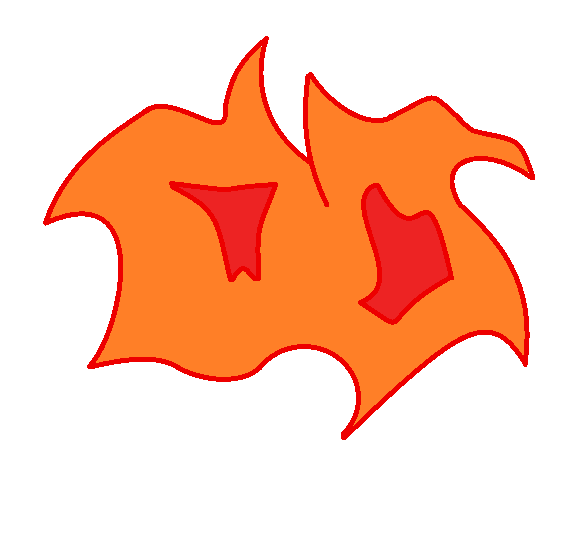
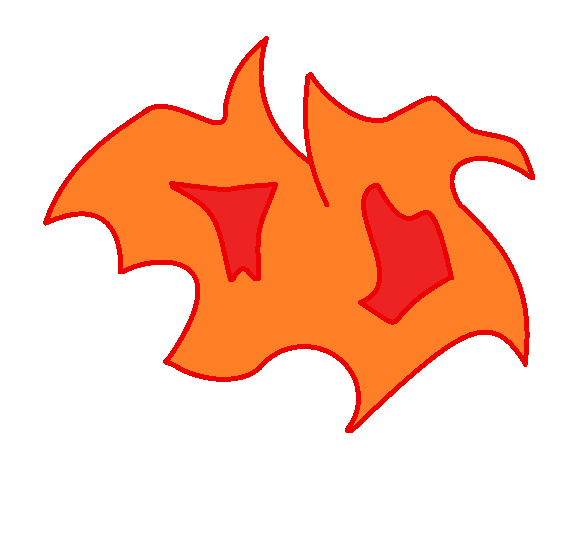
Raging fire img now reflects health.

Changed region(s): [[0.1489, 0.4741, 0.3573, 0.6815], [0.5954, 0.8, 0.6252, 0.8296]]

diff --git a/Maneuver.js b/Maneuver.js
@@ -1215,7 +1215,7 @@ const chest_description = `Chest: It might have something useful inside. Breakin
 const magmatic_boulder_description = `Magmatic Boulder: The light reflecting off of it gives you the feeling of being watched.`;
 const smoldering_ashes_description = [`Smoldering Ashes: A pheonix will be reborn here in `, `turns unless you scatter the ashes by attacking `
                         +`them or moving onto them.`];
-const raging_fire_description = `Raging Fire: The very ground here is burning. It will go out in a turn, but it's not safe to move through.`;
+const raging_fire_description = `Raging Fire: The very ground here is burning. It will grow weaker every turn, but it's not safe to move through.`;
 
 
 // Chest descriptions.
@@ -1955,7 +1955,6 @@ function young_dragon_behavior(self, target, map){
             map.attack(target_space);
             if(map.check_empty(target_space)){
                 var fire = raging_fire_tile();
-                fire.health = 2;
                 map.add_tile(fire, target_space);
             }
         }
@@ -3656,18 +3655,34 @@ function magmatic_boulder_tile(){
 }
 /** @type {TileGenerator} A fire which goes away over time. */
 function raging_fire_tile(){
+    var pic_arr = [`${IMG_FOLDER.tiles}raging_fire_weak.png`, `${IMG_FOLDER.tiles}raging_fire.png`];
+    var health = 2;
     return {
         type: `enemy`,
         name: `raging fire`,
-        pic: `${IMG_FOLDER.tiles}raging_fire.png`,
+        pic: pic_arr[health - 1],
         description: raging_fire_description,
-        health: 1,
+        health,
         behavior: decay_ai,
         telegraph: hazard_telegraph,
-        on_enter: hazard
+        on_enter: hazard,
+        on_hit: raging_fire_hit,
+        pic_arr
     }
 }
 
+/** @type {AIFunction}  AI used by fireballs.*/
+function raging_fire_hit(self, target, map){
+    if( self.tile.health === undefined ||
+        self.tile.pic_arr === undefined
+    ){
+        throw new Error(`tile missing properties used by it's ai.`);
+    }
+    var intensity = Math.min(self.tile.health - 1, self.tile.pic_arr.length);
+    if(intensity >= 0){
+        self.tile.pic = self.tile.pic_arr[intensity];
+    }
+}
 
 
 /** @type {TileGenerator} Dropped by Pheonixes to respawn them. */
@@ -4951,6 +4966,9 @@ class GameMap{
             catch(error){
                 if(error.message === `game over`){
                     throw new Error(`game over`, {cause: new Error(end.name)});
+                }
+                if(error.message === `skip animation delay`){
+                    // Do nothing
                 }
                 else{
                     throw error;

diff --git a/source/2_entities/other/raging_fire.js b/source/2_entities/other/raging_fire.js
@@ -1,15 +1,31 @@
 /** @type {TileGenerator} A fire which goes away over time. */
 function raging_fire_tile(){
+    var pic_arr = [`${IMG_FOLDER.tiles}raging_fire_weak.png`, `${IMG_FOLDER.tiles}raging_fire.png`];
+    var health = 2;
     return {
         type: `enemy`,
         name: `raging fire`,
-        pic: `${IMG_FOLDER.tiles}raging_fire.png`,
+        pic: pic_arr[health - 1],
         description: raging_fire_description,
-        health: 1,
+        health,
         behavior: decay_ai,
         telegraph: hazard_telegraph,
-        on_enter: hazard
+        on_enter: hazard,
+        on_hit: raging_fire_hit,
+        pic_arr
     }
 }
 
+/** @type {AIFunction}  AI used by fireballs.*/
+function raging_fire_hit(self, target, map){
+    if( self.tile.health === undefined ||
+        self.tile.pic_arr === undefined
+    ){
+        throw new Error(`tile missing properties used by it's ai.`);
+    }
+    var intensity = Math.min(self.tile.health - 1, self.tile.pic_arr.length);
+    if(intensity >= 0){
+        self.tile.pic = self.tile.pic_arr[intensity];
+    }
+}
 

diff --git a/source/1_gametext/Descriptions.js b/source/1_gametext/Descriptions.js
@@ -141,7 +141,7 @@ const chest_description = `Chest: It might have something useful inside. Breakin
 const magmatic_boulder_description = `Magmatic Boulder: The light reflecting off of it gives you the feeling of being watched.`;
 const smoldering_ashes_description = [`Smoldering Ashes: A pheonix will be reborn here in `, `turns unless you scatter the ashes by attacking `
                         +`them or moving onto them.`];
-const raging_fire_description = `Raging Fire: The very ground here is burning. It will go out in a turn, but it's not safe to move through.`;
+const raging_fire_description = `Raging Fire: The very ground here is burning. It will grow weaker every turn, but it's not safe to move through.`;
 
 
 // Chest descriptions.

diff --git a/source/3_data_structures/GameMap.js b/source/3_data_structures/GameMap.js
@@ -350,6 +350,9 @@ class GameMap{
                 if(error.message === `game over`){
                     throw new Error(`game over`, {cause: new Error(end.name)});
                 }
+                if(error.message === `skip animation delay`){
+                    // Do nothing
+                }
                 else{
                     throw error;
                 }

diff --git a/source/2_entities/bosses/young_dragon.js b/source/2_entities/bosses/young_dragon.js
@@ -118,7 +118,6 @@ function young_dragon_behavior(self, target, map){
             map.attack(target_space);
             if(map.check_empty(target_space)){
                 var fire = raging_fire_tile();
-                fire.health = 2;
                 map.add_tile(fire, target_space);
             }
         }
